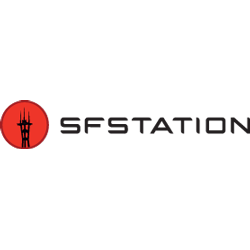
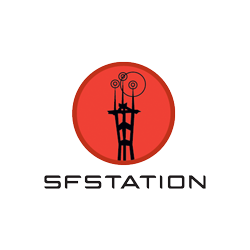
New media sponsor.

Changed region(s): [[0.224, 0.224, 1.0, 0.672], [0.0, 0.392, 0.196, 0.616], [0.168, 0.7, 0.84, 0.756]]

diff --git a/sponsors/index.html b/sponsors/index.html
@@ -167,6 +167,10 @@ sidebar: true
     <a href="http://shootingpeople.org" target="_blank">
       <img class="img-responsive" alt="Shooting People" border="0" height="250" src="{{ 'sponsors/shootingpeople_media.png' | asset_path }}" width="242"></a>
   </div>
+  <div class="col-md-4 col-xs-6 sponsor-image">
+    <a href="http://www.sfstation.com/" target="_blank">
+      <img class="img-responsive" alt="SF Station" border="0" height="250" src="{{ 'sponsors/sfstation.png' | asset_path }}" width="242"></a>
+  </div>
 </div>
 
 <!-- FILM SPONSORS -->
